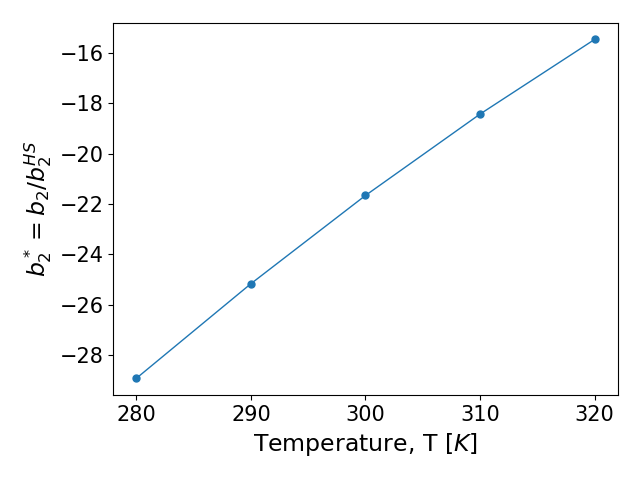
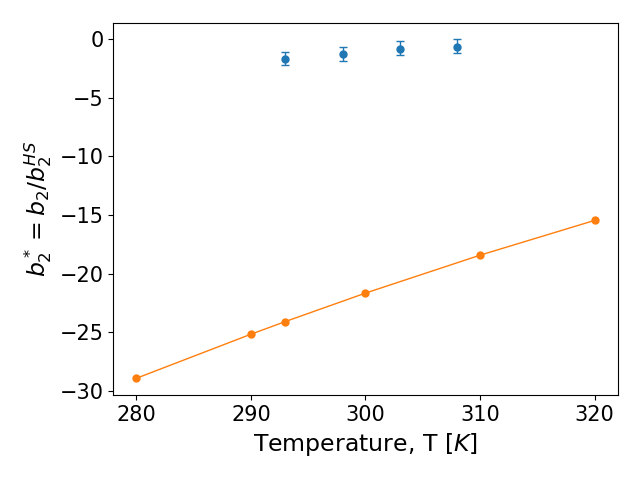
Addition of the experimental data from Bucciareli Stradner 2016

diff --git a/plot_scripts/plot_potential.py b/plot_scripts/plot_potential.py
@@ -22,6 +22,7 @@ args = parser.parse_args()
 
 data_dir = args.path
 plot_dir = args.path.replace('scans','plots')
+exp_dir  = args.path.replace('scans','experiments')
 
 # Calculation of the B2 for a hard sphere of radius 'sigma'
 
@@ -44,6 +45,17 @@ for name in sorted(os.listdir(data_dir),reverse=True):
 print('Files to be processed:')
 print(files_pot)
 
+# Extract B2 values from filename and create the list of files
+
+b2 = []
+for index, file_b2 in enumerate(files_b2):
+        with open(data_dir+file_b2, 'r') as file:
+                b2.append(json.load(file)['B2']/B2_HS)
+
+# Extract B2_reduced from experimental data
+
+T_exp, b2_red_exp, b2_min, b2_max = np.loadtxt(exp_dir+os.listdir(exp_dir)[0], unpack=True)
+
 fig, ax = plt.subplots(nrows=1)
 
 for index, file_pot in enumerate(files_pot):
@@ -60,11 +72,10 @@ plt.savefig(plot_dir+"potential.png")
 
 fig, ax = plt.subplots(nrows=1)
 
-b2 = []
-for index, file_b2 in enumerate(files_b2):
-	print('Procesing file: ', file_b2 )
-	with open(data_dir+file_b2, 'r') as file:
-		b2.append(json.load(file)['B2']/B2_HS)
+fig, ax = plt.subplots()
+
+yerr = np.vstack([b2_min, b2_max])
+ax.errorbar(T_exp, b2_red_exp, yerr=yerr, fmt='o', ms=5, lw=1, capsize=3)
 ax.plot(T, b2, ms=5, marker='o', lw=1)
 #plt.ylim(-11,5)
 #plt.xlim(23,60)
